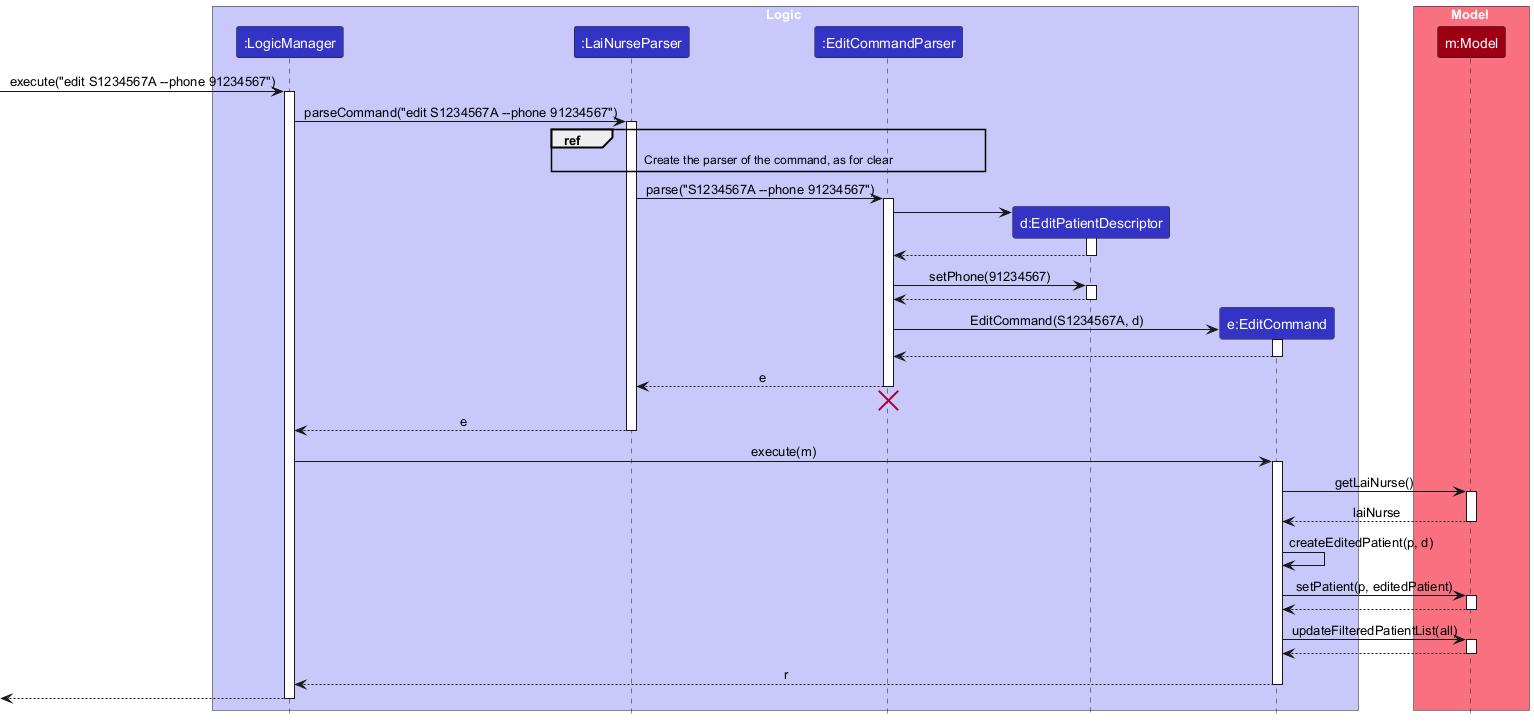
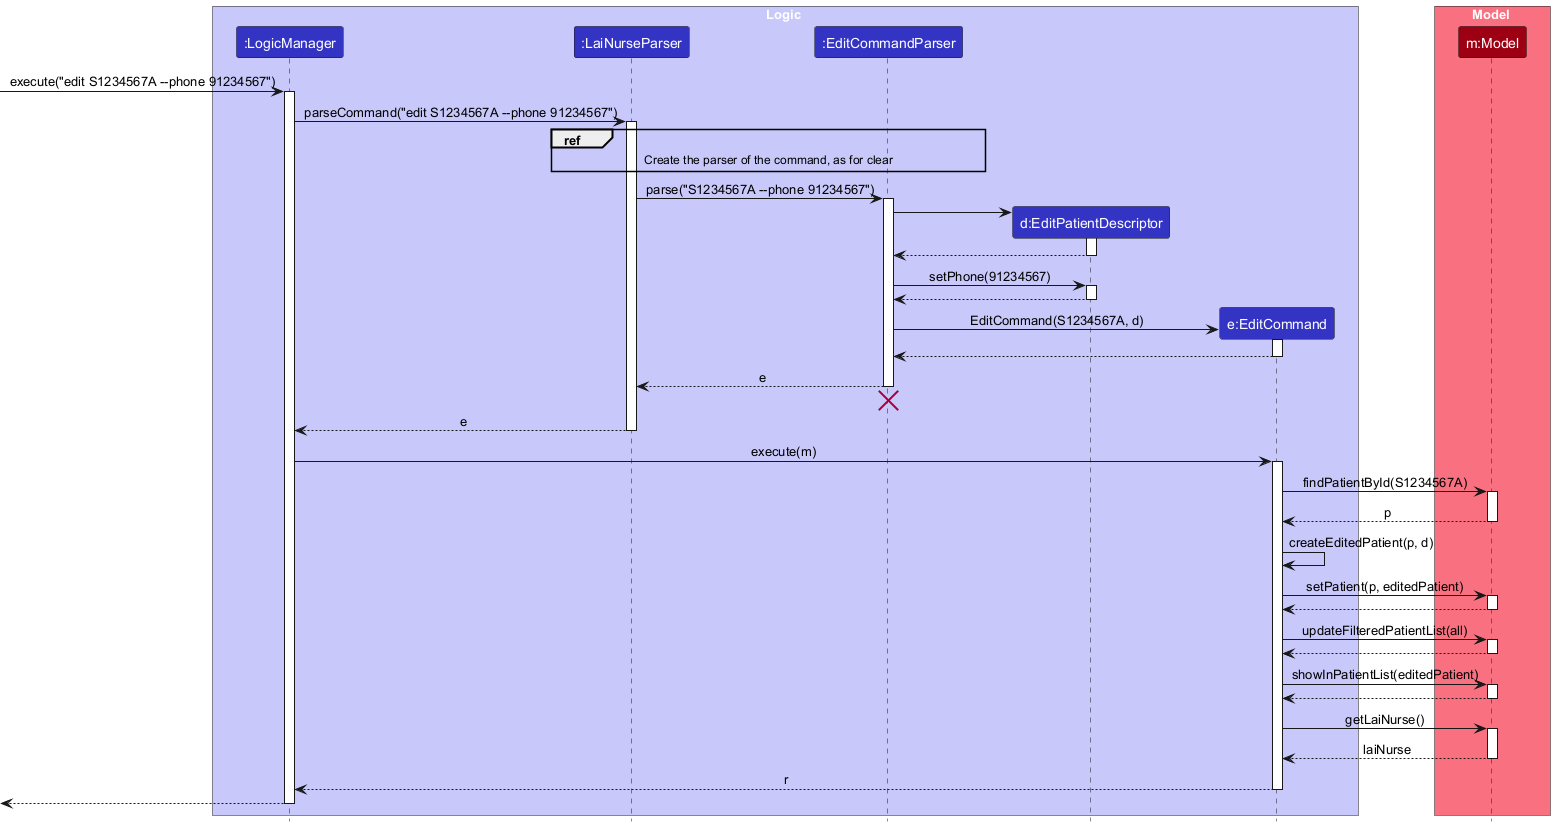
Resolve the mess scores on the edit diagrams
The DG scores the editappt activity diagram and the edit sequence
diagram as needing work, and both disagree with the code. The activity
diagram says an edit keeps the appointment's number and leaves out
--add-details, and two of its boxes only say "Show the error". The
sequence diagram looks the patient up with getLaiNurse(), where
EditCommand uses findPatientById().

Let's correct both diagrams and regenerate their images. The activity
diagram now says what each error reports, and shows the renumbering
that moving an appointment can cause, which sets it apart from the
mark diagram.

These were the last mess scores, so let's also remove their lines and
the sentence that introduces them. The activity diagram is now taller,
so show it at the same width as the mark diagram.

diff --git a/docs/DeveloperGuide.md b/docs/DeveloperGuide.md
@@ -43,8 +43,6 @@ Tutorial_ at se-edu/guides](https://se-education.org/guides/tutorials/plantUml.h
 diagrams.
 </div>
 
-Some diagrams in this guide carry a mess score out of 10, where higher is worse, and a remark.
-
 ### Architecture
 
 <img src="images/ArchitectureDiagram.png" width="280" />
@@ -368,8 +366,6 @@ in the scope of the patient list, and `--all` or `--archived` sets that scope fi
 
 <img src="images/EditSequenceDiagram.png" width="800" />
 
-**Mess score: 3/10.** One of the few sequence diagrams here with a new idea, so it gets off lightly.
-
 `EditCommandParser` reads the ID from the preamble and stores each change in an `EditPatientDescriptor`. A field that
 is not given stays `null` in the descriptor, so `EditCommand#createEditedPatient()` keeps the patient's value for it.
 Each value is checked by the same `ParserUtil` method as in `add`, so a blank name, phone or address is rejected.
@@ -561,9 +557,7 @@ other undone visits at the resulting time when the edited appointment is undone,
 The activity diagram below shows the checks that `editappt` makes, in order. Every error leaves the patient and the
 data file unchanged.
 
-<img src="images/EditAppointmentActivityDiagram.png" width="750" />
-
-**Mess score: 6/10.** The Mark diagram's twin with worse posture, and two boxes that just say "Show the error".
+<img src="images/EditAppointmentActivityDiagram.png" width="450" />
 
 `addappt ID --date DATE_OR_DATETIME [--details DETAILS]` takes the patient ID first, then the date with `--date`
 and optional details with `--details`, in either order. Its parser reuses `ArgumentTokenizer` and
